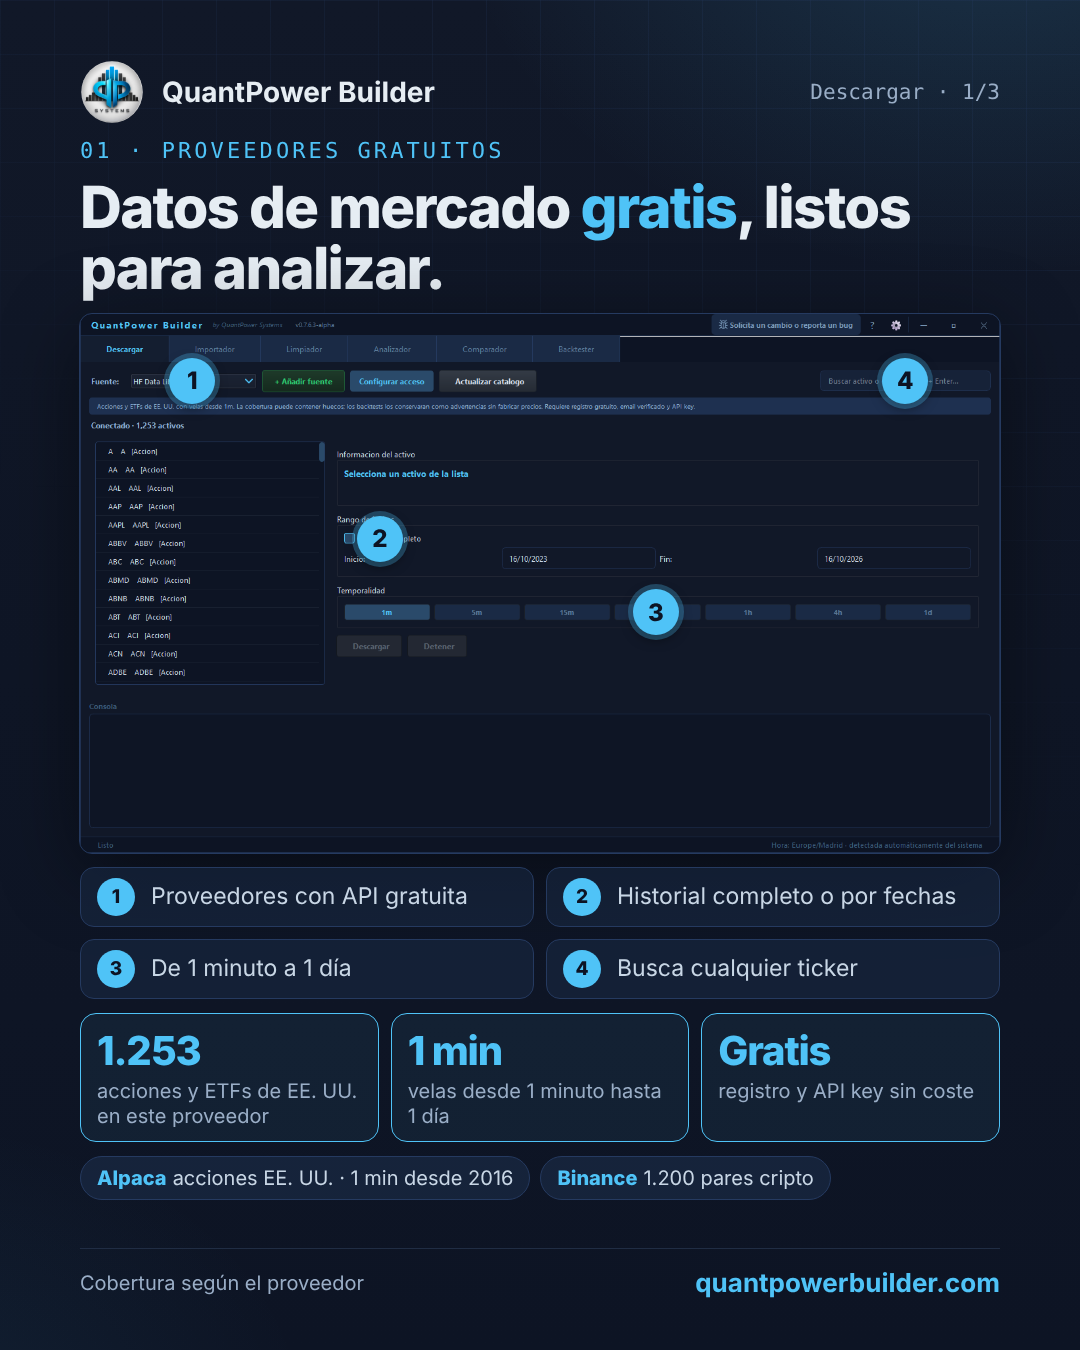
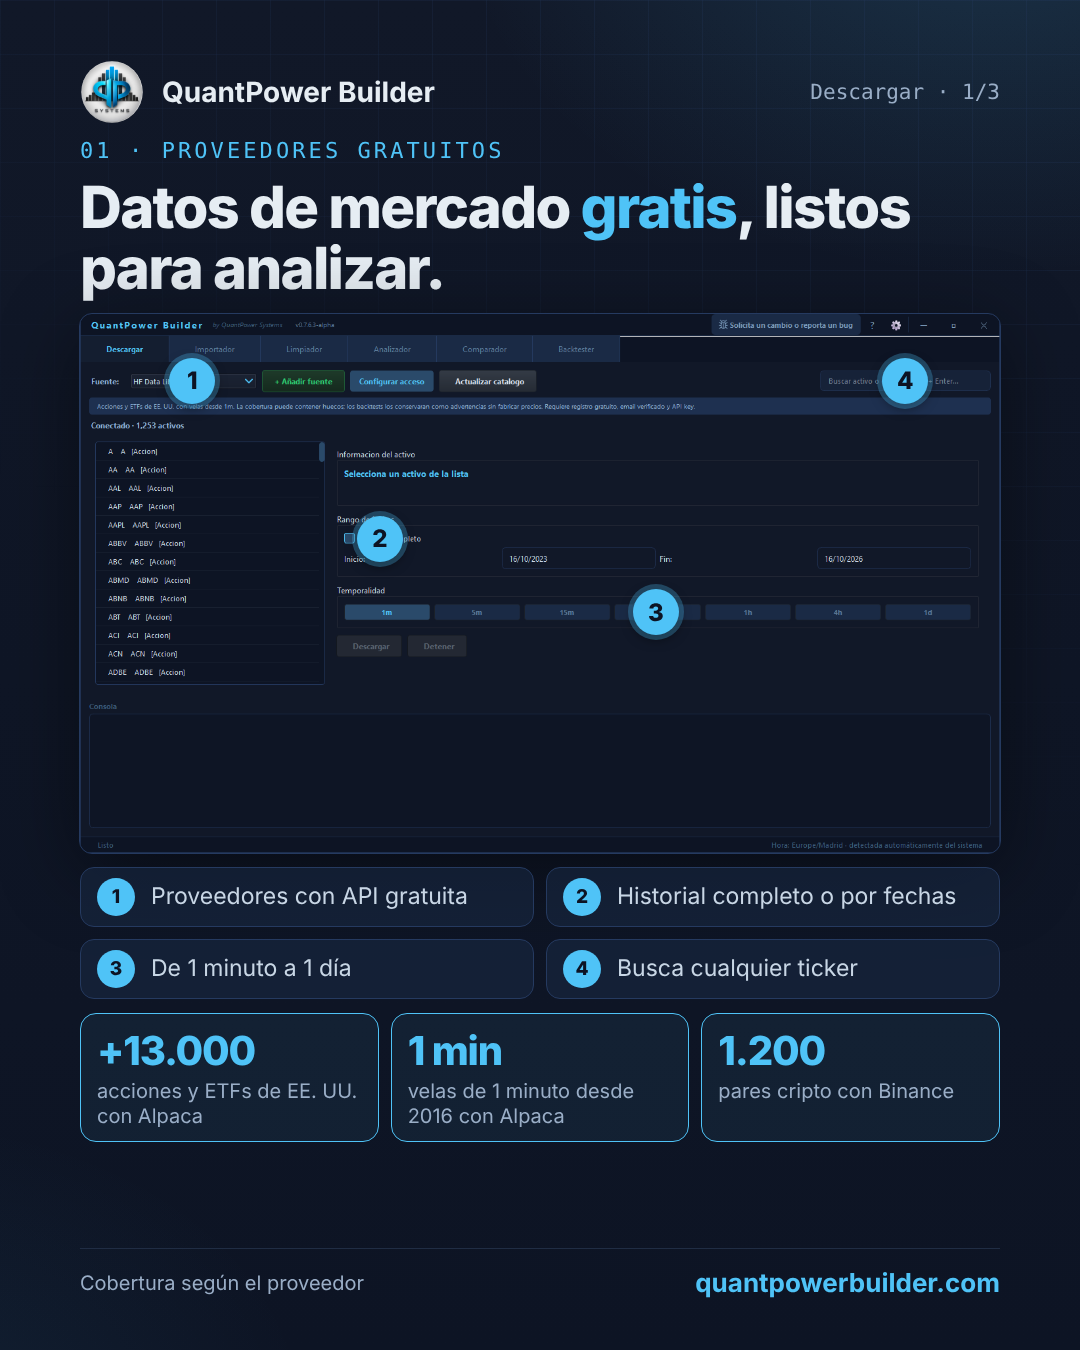
Descargar 1/3: +13.000 acciones y ETFs con Alpaca, 1 min desde 2016 y 1.200 pares cripto con Binance
Claude-Session: https://claude.ai/code/session_01HHLZi1SgtUefWHesdsfYTT

diff --git a/redes/08-descargar-datos/publicacion.html b/redes/08-descargar-datos/publicacion.html
@@ -103,13 +103,9 @@
     <div class="leg"><i>4</i>Busca cualquier ticker</div>
   </div>
   <div class="stats">
-    <div class="stat"><strong>1.253</strong><span>acciones y ETFs de EE. UU. en este proveedor</span></div>
-    <div class="stat"><strong>1 min</strong><span>velas desde 1 minuto hasta 1 día</span></div>
-    <div class="stat"><strong>Gratis</strong><span>registro y API key sin coste</span></div>
-  </div>
-  <div class="more">
-    <span class="prov"><b>Alpaca</b>acciones EE. UU. · 1 min desde 2016</span>
-    <span class="prov"><b>Binance</b>1.200 pares cripto</span>
+    <div class="stat"><strong>+13.000</strong><span>acciones y ETFs de EE. UU. con Alpaca</span></div>
+    <div class="stat"><strong>1 min</strong><span>velas de 1 minuto desde 2016 con Alpaca</span></div>
+    <div class="stat"><strong>1.200</strong><span>pares cripto con Binance</span></div>
   </div>
   <div class="foot"><span>Cobertura según el proveedor</span><b>quantpowerbuilder.com</b></div>
 </section>

diff --git a/redes/08-descargar-datos/texto-post.md b/redes/08-descargar-datos/texto-post.md
@@ -8,10 +8,10 @@ tres publicaciones sueltas: cada una lleva logo, número y enlace.
 - `capturas/` → capturas recortadas por el borde de la ventana. Los correos están
   sustituidos por «tu-cuenta@…».
 
-> En la imagen 1, las cifras grandes son las del proveedor de la captura
-> (acciones y ETFs de EE. UU., 1.253 activos, velas desde 1 minuto, registro y
-> API key gratuitos). Debajo, aparte y con su nombre: Alpaca (acciones de EE. UU.
-> con 1 minuto desde 2016) y Binance (1.200 pares cripto).
+> Imagen 1: cada cifra va con su proveedor. Alpaca: +13.000 acciones y ETFs de
+> EE. UU. (los que detecta el catálogo de la aplicación) y velas de 1 minuto
+> desde 2016. Binance: 1.200 pares cripto. La captura es de otro proveedor
+> gratuito; si se cambia por una con Alpaca seleccionado, cuadra todo.
 
 ## TikTok
 
@@ -19,7 +19,7 @@ tres publicaciones sueltas: cada una lleva logo, número y enlace.
 **Descripción:** 📥 Datos de mercado gratis para tu backtesting · Descargar 1/3 #QuantPowerBuilder
 
 **Comentario fijado:**
-QuantPower Builder descarga datos desde proveedores con API gratuita. En la captura, 1.253 acciones y ETFs de EE. UU. con velas desde 1 minuto. Y hay más: Alpaca, con acciones de EE. UU. y velas de 1 minuto desde 2016, y Binance, con 1.200 pares cripto desde su inicio. 👉 quantpowerbuilder.com
+QuantPower Builder descarga datos desde proveedores con API gratuita: con Alpaca, más de 13.000 acciones y ETFs de EE. UU. con velas de 1 minuto desde 2016; con Binance, 1.200 pares cripto. 👉 quantpowerbuilder.com
 #QuantPowerBuilder #trading #backtesting #datosdemercado #tradingalgoritmico
 
 ### 2/3 · Tus almacenamientos
@@ -41,7 +41,7 @@ QuantPower Builder abre tus ZIP, reconoce los CSV y TXT con OHLC y te deja elegi
 📥 Tus datos de mercado, en un solo sitio.
 
 La pestaña Descargar de QuantPower Builder reúne todo lo que necesitas antes de analizar:
-1⃣ Proveedores con API gratuita: acciones y ETFs de EE. UU. desde 1 minuto, Alpaca con 1 minuto desde 2016, y Binance con 1.200 pares cripto desde su inicio.
+1⃣ Proveedores con API gratuita: más de 13.000 acciones y ETFs de EE. UU. con Alpaca (velas de 1 minuto desde 2016) y 1.200 pares cripto con Binance.
 2⃣ Tus propios almacenamientos: Google Drive, MEGA, OneDrive, Dropbox, SFTP o carpeta local.
 3⃣ Explora tus ZIP y descarga solo los archivos que necesitas.
 
